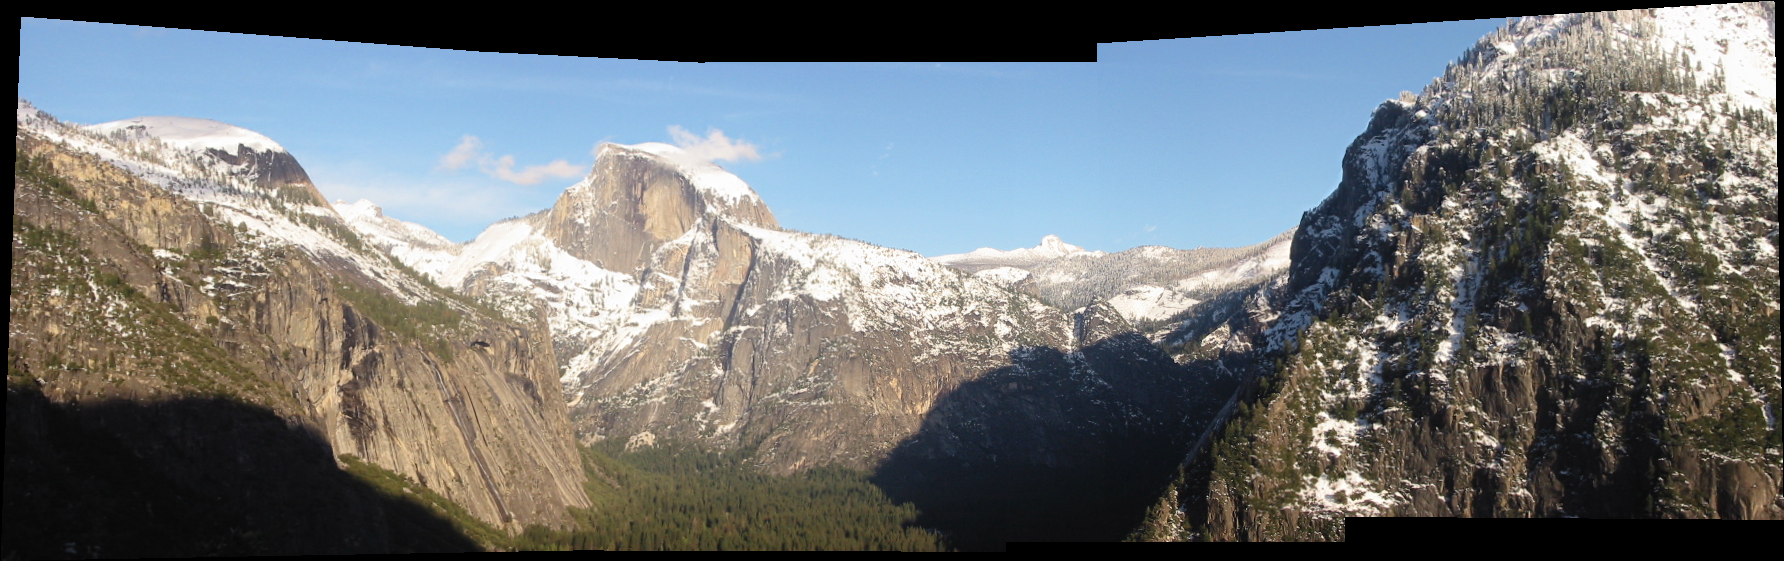
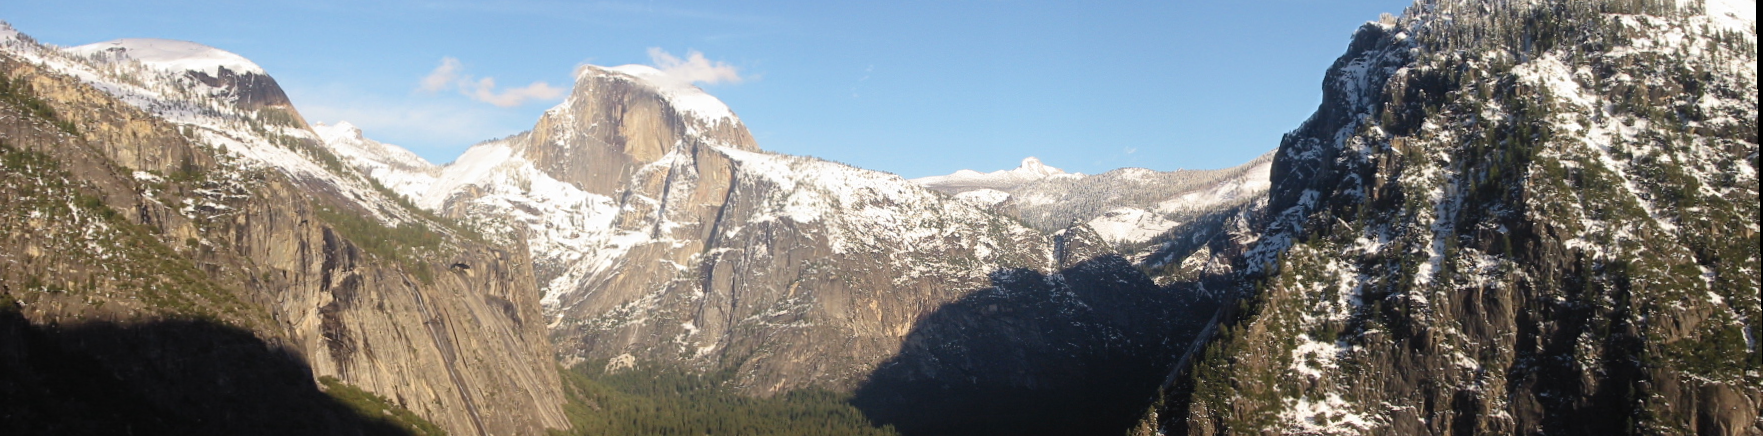
auto crop

diff --git a/src/Pano.cpp b/src/Pano.cpp
@@ -348,14 +348,24 @@ FloatImage Pano::catnimagesTwoScaleBlend(FloatImage ref, std::vector<FloatImage>
     // init imagebounds
     ImageBound im1bound = boundBox(ref);
     vector<ImageBound> bounds;
+
+    vector<ImageBound> cbounds;
+
     Canvas canv;
 
     for (int n = 0; n < homos.size(); ++n) {
         bounds.push_back(boundBoxHomo(ims[n], homos[n]));
+        cbounds.push_back(boundBoxCrop(ims[n], homos[n]));
     }
     bounds.push_back(im1bound);
+
+    cbounds.push_back(im1bound);
+
     // calculate canvas of output image
     canv = calculateCanvas(bounds);
+
+
+
     cout << "image bound"<<endl;
 
     FloatImage canv_w(canv.length, canv.height, 1);
@@ -438,7 +448,7 @@ FloatImage Pano::catnimagesTwoScaleBlend(FloatImage ref, std::vector<FloatImage>
     }
 
 
-    return outputlow + outputhigh;
+    return autocrop(cbounds, canv.offset, outputlow + outputhigh);
 
 }
 
@@ -627,6 +637,40 @@ ImageBound Pano::boundBoxHomo(const FloatImage &im, Mat3f homo){
     
     return hb;
     
+}
+
+ImageBound Pano::boundBoxCrop(const FloatImage &im, Mat3f homo){
+    ImageBound hb;
+
+    Vec3f tl,tr,bl,br,ctl,ctr,cbl,cbr;
+    tl << 0,  0, 1;
+    tr << im.sizeX(), 0, 1;
+    bl << 0, im.sizeY(), 1;
+    br << im.sizeX(), im.sizeY(), 1;
+
+    tl = homo * tl;
+    tr = homo * tr;
+    bl = homo * bl;
+    br = homo * br;
+
+    tl = tl / tl.z();
+    tr = tr / tr.z();
+    bl = bl / bl.z();
+    br = br / br.z();
+
+    ctl << std::fmax(tl.x(), bl.x()), std::fmax(tl.y(), tr.y()),1;
+    ctr << std::fmax(tr.x(), br.x()), std::fmax(tl.y(), tr.y()),1;
+    cbl << std::fmax(tl.x(), bl.x()), std::fmin(bl.y(), br.y()),1;
+    cbr << std::fmax(tr.x(), br.x()), std::fmin(bl.y(), br.y()),1;
+
+
+    hb.grow(ctl);
+    hb.grow(ctr);
+    hb.grow(cbl);
+    hb.grow(cbr);
+
+    return hb;
+
 }
 
 Canvas Pano::calculateCanvas(ImageBound a, ImageBound b){
@@ -852,6 +896,26 @@ FloatImage Pano::vizMatches(PanoImage &pim1, PanoImage &pim2, std::vector<std::v
     }
     return vizMatches(pim1, pim2, matchesi);
 
+
+}
+
+FloatImage Pano::autocrop(std::vector<ImageBound> bs, Vec2i offset, const FloatImage &im){
+    Vec2f topleft, btmright;
+    topleft << bs[0].topleft;
+    btmright << bs[0].btnright;
+    for (int i = 1; i < bs.size(); ++i) {
+        topleft.x() = std::fmin(topleft.x(), bs[i].topleft.x());
+        topleft.y() = std::fmax(topleft.y(), bs[i].topleft.y());
+        btmright.x() = std::fmax(btmright.x(), bs[i].btnright.x());
+        btmright.y() = std::fmin(btmright.y(), bs[i].btnright.y());
+    }
+    cout << topleft << endl;
+    cout << btmright << endl;
+    printf("(%d, %d) to (%d, %d)", (int)topleft.x() - offset.x(), (int)topleft.y() - offset.y(),
+           (int)btmright.x() - offset.x(), (int)btmright.y() - offset.y());
+    printf("dimension is (%d, %d)", im.sizeX(), im.sizeY());
+    return cropImage(im, topleft.x() - offset.x(), topleft.y() - offset.y(),
+                     btmright.x() - offset.x(), btmright.y() - offset.y());
 
 }
 

diff --git a/include/Pano.hpp b/include/Pano.hpp
@@ -80,6 +80,8 @@ public:
     FloatImage autocat2images(PanoImage &pim1, PanoImage &pim2, bool blend=true);
     FloatImage autocatnimages(std::vector<PanoImage> &pims, bool center=true, bool blend=true, bool twoscale=true);
 
+    FloatImage autocrop(std::vector<ImageBound> bs, Vec2i offset, const FloatImage &im);
+
 
 
     
@@ -89,6 +91,7 @@ public:
     // calculate new canvas given image and homo
     ImageBound boundBox(const FloatImage &im);
     ImageBound boundBoxHomo(const FloatImage &im, Mat3f homo);
+    ImageBound boundBoxCrop(const FloatImage &im, Mat3f homo);
     
     // calculate the shift offset when conbining two images
     Canvas calculateCanvas(ImageBound a, ImageBound b);

diff --git a/src/main.cpp b/src/main.cpp
@@ -144,7 +144,7 @@ void testNHome(int start, int end){
         pims.push_back(PanoImage(FloatImage(buffer)));
     }
 
-    FloatImage autocat = pano.autocatnimages(pims, true, false);
+    FloatImage autocat = pano.autocatnimages(pims);
     autocat.write(DATA_DIR "/output/auto_home_lego_lin.png");
 
 }
@@ -211,7 +211,7 @@ int main(){
 
 
     //testCatYosemite();
-//    testCatNYosemite();
+    testCatNYosemite();
     //testCatTable();
     //testCatNPan();
     //
@@ -222,7 +222,7 @@ int main(){
 //    testWeightMap();
 //    testVizPatch();
 //    testCatTable();
-    testCatLily();
+//    testCatLily();
 //    testNHome(5163, 5165);
 
     return 0;

diff --git a/src/common.cpp b/src/common.cpp
@@ -361,4 +361,16 @@ vector<float> gauss1DValues(float sigma, float truncate){
     return fData;
 }
 
+FloatImage cropImage(const FloatImage &im, int a, int b, int c, int d){
+    FloatImage output(c - a, d - b, im.channels());
+    for (int i = a; i < c; ++i) {
+        for (int j = b; j < d; ++j) {
+            for (int n = 0; n < im.channels(); ++n) {
+                output(i - a, j - b, n) = im(i, j, n);
+            }
+        }
+    }
+    return output;
+}
+
 

diff --git a/include/common.h b/include/common.h
@@ -158,6 +158,8 @@ FloatImage matchRGBHistograms(const FloatImage & F1, const FloatImage & F2);
 float interpolateLin(const FloatImage &im, float x, float y, int z, bool clamp = true);
 std::vector<float> gauss1DValues(float sigma, float truncate);
 
+FloatImage cropImage(const FloatImage &im, int a, int b, int c, int d);
+
 
 
 

diff --git a/src/PanoImage.cpp b/src/PanoImage.cpp
@@ -27,6 +27,7 @@ void ImageBound::grow(Vec3f point){
     btnright = v2;
 }
 
+
 bool ImageBound::inbound(Vec3f point){
     if(point.x() < topleft.x() || point.x() > btnright.x() || point.y() < topleft.y() || point.y() > btnright.y()) return false;
     else return true;

diff --git a/include/floatimage.h b/include/floatimage.h
@@ -88,6 +88,7 @@ public:
     bool inBound(int x, int y);
     void drawSquare(int a, int b, int size=3);
 
+
 private:
     static int s_debugWriteNumber; // Image number for debug write
 };

diff --git a/src/floatimage.cpp b/src/floatimage.cpp
@@ -516,3 +516,5 @@ bool FloatImage::inBound(int x, int y){
 	return true;
 }
 
+
+
